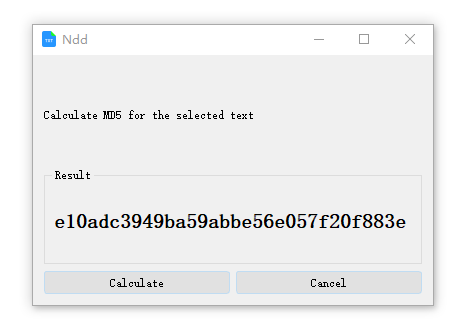
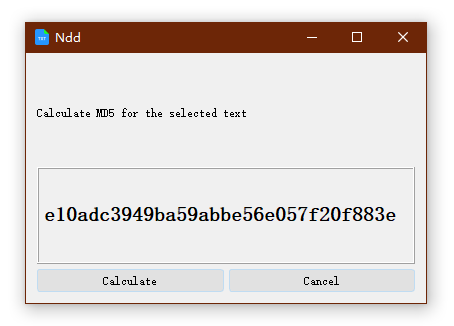
fix: some adjustments and dos2unix. :bug:

Changed region(s): [[0.0308, 0.0613, 0.9559, 0.9816]]

diff --git a/widget.cpp b/widget.cpp
@@ -26,9 +26,8 @@ Widget::Widget(QWidget *parent, QsciScintilla* pEdit)
     : QWidget(parent)
 {
     this->m_gl = new QGridLayout();
-    this->m_gl_result = new QGridLayout();
-    this->m_gb_result = new QGroupBox();
     this->m_hbl = new QHBoxLayout();
+    this->m_hbl_result = new QHBoxLayout();
     this->m_lb_result = new QLabel();
     this->m_lb_description = new QLabel();
     this->m_btn_calc = new QPushButton();
@@ -37,7 +36,10 @@ Widget::Widget(QWidget *parent, QsciScintilla* pEdit)
     this->resize(400, 250);
     this->m_pEdit = pEdit;
 
-    this->m_gb_result->setTitle("Result");
+    this->m_gl->setSpacing(5);
+    this->m_hbl->setSpacing(5);
+    this->m_hbl_result->setSpacing(5);
+
     this->m_btn_calc->setText("Calculate");
     this->m_btn_cancel->setText("Cancel");
     this->m_lb_description->setText("Calculate MD5 for the selected text");
@@ -47,12 +49,13 @@ Widget::Widget(QWidget *parent, QsciScintilla* pEdit)
     this->m_lb_result->setFont(ft);
     this->m_lb_result->setText("null");
     this->m_lb_result->setTextInteractionFlags(Qt::TextSelectableByMouse);
+    this->m_lb_result->setFrameShape(QFrame::Box);
+    this->m_lb_result->setFrameShadow(QFrame::Raised);
     this->m_hbl->addWidget(this->m_btn_calc);
     this->m_hbl->addWidget(this->m_btn_cancel);
-    this->m_gl_result->addWidget(this->m_lb_result);
-    this->m_gb_result->setLayout(this->m_gl_result);
+    this->m_hbl_result->addWidget(this->m_lb_result);
     this->m_gl->addWidget(this->m_lb_description, 0, 0);
-    this->m_gl->addWidget(this->m_gb_result, 1, 0);
+    this->m_gl->addLayout(this->m_hbl_result, 1, 0);
     this->m_gl->addLayout(this->m_hbl, 2, 0);
     this->setLayout(this->m_gl);
 
@@ -77,15 +80,10 @@ Widget::~Widget()
         delete this->m_hbl;
         this->m_hbl = nullptr;
     }
-    if (nullptr != this->m_gb_result)
+    if (nullptr != this->m_hbl_result)
     {
-        delete this->m_gb_result;
-        this->m_gb_result = nullptr;
-    }
-    if (nullptr != this->m_gl_result)
-    {
-        delete this->m_gl_result;
-        this->m_gl_result = nullptr;
+        delete this->m_hbl_result;
+        this->m_hbl_result = nullptr;
     }
     if (nullptr != this->m_gl)
     {

diff --git a/widget.h b/widget.h
@@ -25,7 +25,6 @@
 #include <QHBoxLayout>
 #include <QLabel>
 #include <QPushButton>
-#include <QGroupBox>
 
 class QsciScintilla;
 class Widget : public QWidget
@@ -41,9 +40,8 @@ private slots:
 
 private:
     QsciScintilla* m_pEdit;
-    QGridLayout *m_gl, *m_gl_result;
-    QHBoxLayout *m_hbl;
-    QGroupBox *m_gb_result;
+    QGridLayout *m_gl;
+    QHBoxLayout *m_hbl, *m_hbl_result;
     QLabel *m_lb_description, *m_lb_result;
     QPushButton *m_btn_calc, *m_btn_cancel;
 };

diff --git a/MD5Calc_export.cpp b/MD5Calc_export.cpp
@@ -19,6 +19,7 @@
 
 #include "widget.h"
 
+#include <QObject>
 #include <QApplication>
 #include <QLocale>
 #include <QTranslator>
